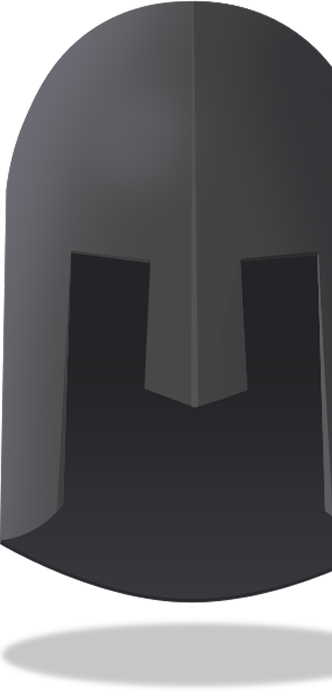
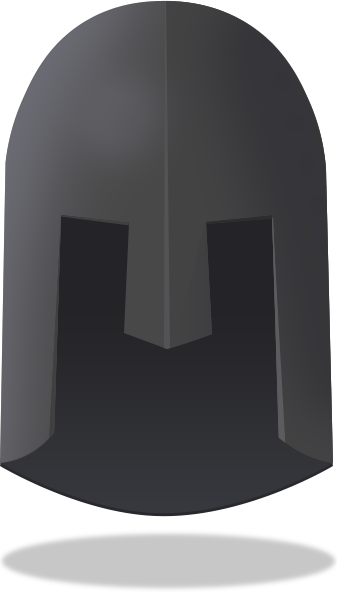
tickets updated

diff --git a/tickets.html b/tickets.html
@@ -127,7 +127,7 @@
 </section>
 
 <!-- info area -->
- <div class="grid_tickets_venue">
+ <div class="grid_tickets_venue" >
 <section class="info_section">
 
   <div class="info_item">
@@ -165,11 +165,7 @@
         <li>Jernbanegade v. Havnegade: 3B, 4B, 11, 12, 13</li>
       </ul>
      
-      <div class="helmet_area">
-
-<img src="images/helmet.png" alt="helmet">
-
-</div>
+      
     </div>
 
 </div>
@@ -177,63 +173,67 @@
 
 
 </section>
+<div class="helmet_area">
+  <img src="images/helmet.png" alt="helmet">
+</div>
 </div>
 </div>
 
 
 
     <!-- Footer Area -->
-    <footer class="footer">
-        <div class="footer_image">
-            <div class="footer_info">
-                <img class="musikhuset" src="images/musikhuset.png">
-                <img class="skarn" src="images/SKARN22333.png">
-                <div class="line"></div>
-                <div class="footer_info_socials">
-                    <div class="footer_info_socials_instagram">
-                        <a href="https://www.instagram.com/eatskarntyden/">
-                            <svg xmlns="http://www.w3.org/2000/svg" width="24" height="24" viewBox="0 0 24 24">
-                                <path fill="currentColor"
-                                    d="M7.8 2h8.4C19.4 2 22 4.6 22 7.8v8.4a5.8 5.8 0 0 1-5.8 5.8H7.8C4.6 22 2 19.4 2 16.2V7.8A5.8 5.8 0 0 1 7.8 2m-.2 2A3.6 3.6 0 0 0 4 7.6v8.8C4 18.39 5.61 20 7.6 20h8.8a3.6 3.6 0 0 0 3.6-3.6V7.6C20 5.61 18.39 4 16.4 4zm9.65 1.5a1.25 1.25 0 0 1 1.25 1.25A1.25 1.25 0 0 1 17.25 8A1.25 1.25 0 0 1 16 6.75a1.25 1.25 0 0 1 1.25-1.25M12 7a5 5 0 0 1 5 5a5 5 0 0 1-5 5a5 5 0 0 1-5-5a5 5 0 0 1 5-5m0 2a3 3 0 0 0-3 3a3 3 0 0 0 3 3a3 3 0 0 0 3-3a3 3 0 0 0-3-3" />
-                            </svg>
-                            <p>Instagram</p>
+        <footer class="footer">
+            <div class="footer_image">
+                <div class="footer_info">
+                    <div class="footer_info_logos">
+                        <a href="https://mhe.dk/">
+                            <img class="musikhuset" src="images/musikhuset.png">
                         </a>
-                    </div>
-                    <div class="footer_info_socials_facebook">
-                        <a href="https://www.facebook.com/skarntyden">
-                            <svg data-category="socials" xmlns="http://www.w3.org/2000/svg" width="24" height="24"
-                                viewBox="0 0 24 24">
-                                <path fill="currentColor"
-                                    d="M20.9 2H3.1A1.1 1.1 0 0 0 2 3.1v17.8A1.1 1.1 0 0 0 3.1 22h9.58v-7.75h-2.6v-3h2.6V9a3.64 3.64 0 0 1 3.88-4a20 20 0 0 1 2.33.12v2.7H17.3c-1.26 0-1.5.6-1.5 1.47v1.93h3l-.39 3H15.8V22h5.1a1.1 1.1 0 0 0 1.1-1.1V3.1A1.1 1.1 0 0 0 20.9 2" />
-                            </svg>
-                            <p>Facebook</p>
-                        </a>
-                    </div>
-                    <div class="footer_info_socials_website">
+                        
+                        <div class="footer_info_button_donate">
+                            <button>
+                                <a href="">Donate here</a>
+                            </button>    
+                        </div> 
                         <a href="https://eatskarntyden.dk/">
-                            <svg xmlns="http://www.w3.org/2000/svg" width="24" height="24" viewBox="0 0 24 24">
-                                <g fill="none" stroke="currentColor" stroke-width="1.5">
-                                    <path stroke-linecap="round" stroke-linejoin="round"
-                                        d="M22 12c0-5.523-4.477-10-10-10S2 6.477 2 12s4.477 10 10 10" />
-                                    <path stroke-linecap="round" stroke-linejoin="round"
-                                        d="M13 2.05S16 6 16 12m-5 9.95S8 18 8 12s3-9.95 3-9.95M2.63 15.5H12m-9.37-7h18.74" />
-                                    <path
-                                        d="M21.879 17.917c.494.304.463 1.043-.045 1.101l-2.567.291l-1.151 2.312c-.228.459-.933.234-1.05-.334l-1.255-6.116c-.099-.48.333-.782.75-.525z"
-                                        clip-rule="evenodd" />
-                                </g>
-                            </svg>
-                            <p>Website</p>
-                        </a>
+                        <img class="skarn" src="images/SKARN22333.png"> 
+                        </a>                   
+                        
                     </div>
-                </div>
-                <div class="footer_info_button">
-                    <button>
-                        <a href="">Get your tickets here</a>
-                    </button>
-                </div>
+                <div class="line"></div>
+                <div class="footer_info_right">   
+                    <div class="footer_info2">
+                        <div class="footer_info_socials">
+                            <div class="footer_info_socials_instagram">
+                                <a href="https://www.instagram.com/eatskarntyden/">
+                                    <svg xmlns="http://www.w3.org/2000/svg" width="24" height="24" viewBox="0 0 24 24"><path fill="currentColor" d="M7.8 2h8.4C19.4 2 22 4.6 22 7.8v8.4a5.8 5.8 0 0 1-5.8 5.8H7.8C4.6 22 2 19.4 2 16.2V7.8A5.8 5.8 0 0 1 7.8 2m-.2 2A3.6 3.6 0 0 0 4 7.6v8.8C4 18.39 5.61 20 7.6 20h8.8a3.6 3.6 0 0 0 3.6-3.6V7.6C20 5.61 18.39 4 16.4 4zm9.65 1.5a1.25 1.25 0 0 1 1.25 1.25A1.25 1.25 0 0 1 17.25 8A1.25 1.25 0 0 1 16 6.75a1.25 1.25 0 0 1 1.25-1.25M12 7a5 5 0 0 1 5 5a5 5 0 0 1-5 5a5 5 0 0 1-5-5a5 5 0 0 1 5-5m0 2a3 3 0 0 0-3 3a3 3 0 0 0 3 3a3 3 0 0 0 3-3a3 3 0 0 0-3-3"/></svg>
+                                    <p>Instagram</p>
+                                </a>
+                            </div>
+                            <div class="footer_info_socials_facebook">
+                                <a href="https://www.facebook.com/skarntyden">
+                                    <svg data-category="socials" xmlns="http://www.w3.org/2000/svg" width="24" height="24" viewBox="0 0 24 24"><path fill="currentColor" d="M20.9 2H3.1A1.1 1.1 0 0 0 2 3.1v17.8A1.1 1.1 0 0 0 3.1 22h9.58v-7.75h-2.6v-3h2.6V9a3.64 3.64 0 0 1 3.88-4a20 20 0 0 1 2.33.12v2.7H17.3c-1.26 0-1.5.6-1.5 1.47v1.93h3l-.39 3H15.8V22h5.1a1.1 1.1 0 0 0 1.1-1.1V3.1A1.1 1.1 0 0 0 20.9 2"/></svg>
+                                    <p>Facebook</p>
+                                </a>    
+                            </div>
+                            <div class="footer_info_socials_website">
+                                <a href="https://eatskarntyden.dk/">
+                                    <svg xmlns="http://www.w3.org/2000/svg" width="24" height="24" viewBox="0 0 24 24"><g fill="none" stroke="currentColor" stroke-width="1.5"><path stroke-linecap="round" stroke-linejoin="round" d="M22 12c0-5.523-4.477-10-10-10S2 6.477 2 12s4.477 10 10 10"/><path stroke-linecap="round" stroke-linejoin="round" d="M13 2.05S16 6 16 12m-5 9.95S8 18 8 12s3-9.95 3-9.95M2.63 15.5H12m-9.37-7h18.74"/><path d="M21.879 17.917c.494.304.463 1.043-.045 1.101l-2.567.291l-1.151 2.312c-.228.459-.933.234-1.05-.334l-1.255-6.116c-.099-.48.333-.782.75-.525z" clip-rule="evenodd"/></g></svg>
+                                    <p>Website</p>
+                                </a>
+                            </div>
+                        </div>         
+                    </div>
+                    <div class="footer_info_button">
+                            <button>
+                                <a href="">Get your tickets here</a>
+                            </button>    
+                        </div>     
+                    </div>
+                </div>     
             </div>
-        </div>
-    </footer>
+            <div class="footer_for_responsive"></div>
+        </footer>
     </div>
 </body>
 

diff --git a/css/main.css b/css/main.css
@@ -1270,7 +1270,7 @@ margin-top: 90px;
   justify-content: center;
   align-items: center;
   gap: 8px;
-  margin: 16px 0;
+  margin-top: 50px;
 }
 
 .venue_address p {
@@ -1293,8 +1293,9 @@ margin-top: 90px;
 .google_maps_button {
  background: var(--clicked_color_navigation);
   border: none;
-  margin-left: 140px;
-  padding: 10px 18px;
+  margin-top: 50px;
+  margin-left: 45px;
+  padding: 10px 110px;
   border-radius: 6px;
     
 }
@@ -1312,55 +1313,63 @@ margin-top: 90px;
 /* info section  */
 
 .info_section {
-  grid-column: 1/ span 4;
+    
+   display: grid;
+  grid-template-columns: repeat(12, 1fr);
+  row-gap: 48px;
+  grid-column: 1 / span 9;
   
 }
 
 .info_item {
-  display: contents; 
+   grid-column: 1 / span 8;
+display: grid;
+  grid-template-columns: repeat(12, 1fr);
+  align-items: start;
+  padding-bottom: 32px;
+  border-bottom: 4px solid var(--clicked_color_navigation);
 }
 
 .info_icon {
-  grid-column: 2;     
-  width: 60px;
-  height: 60px;
-  margin-top: 5px;
+    grid-column: 2 / span 1;
+  width: 75px;
+  margin-top: 30px;
 }
 
 .info_text {
-  
-    grid-column: 3/7;     
+   grid-column: 4 / span 9;
   
 }
 
 .info_text h3 {
   font-family: 'Eagle Lake';
-  font-size: 28px;
-  margin: 0 0 10px 0;
+  font-size: 36px;
+margin-bottom: 15px;
 }
 
 .info_text ul {
-  list-style-type: disc;
-  padding-left: 20px;
-  margin: 0;
+font-family: 'Afacad';
+    padding-left: 30px;
+
 }
 
 .info_text li {
-  font-family: 'Afacad';
-  font-size: 18px;
+  font-size: 20px;
   line-height: 1.5;
-  margin-bottom: 8px;
 }
 
 .helmet_area {
-  grid-column: 7; 
-  
-}
+  grid-column: 10 / span 3;
+  display: flex;
+  }
+     
 
 .helmet_area img {
-  width: 300px;  
+  max-width: auto; 
   height: auto;
 }
+
+
 
 
 
